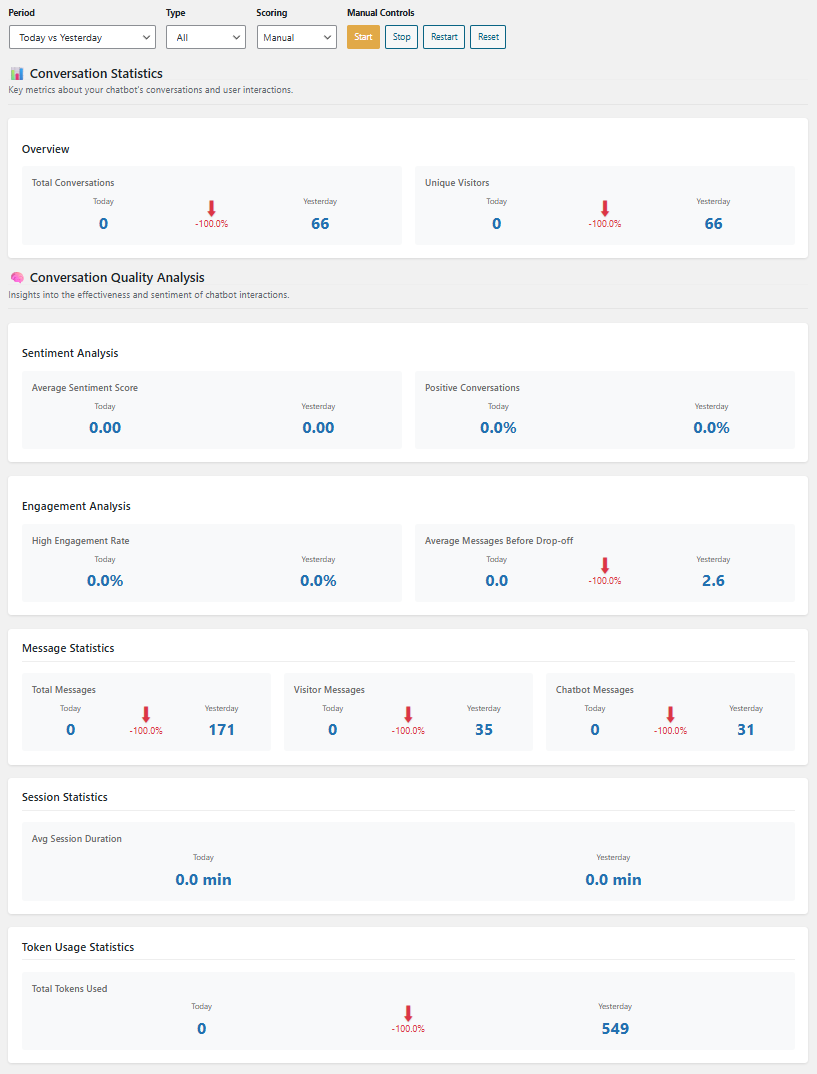
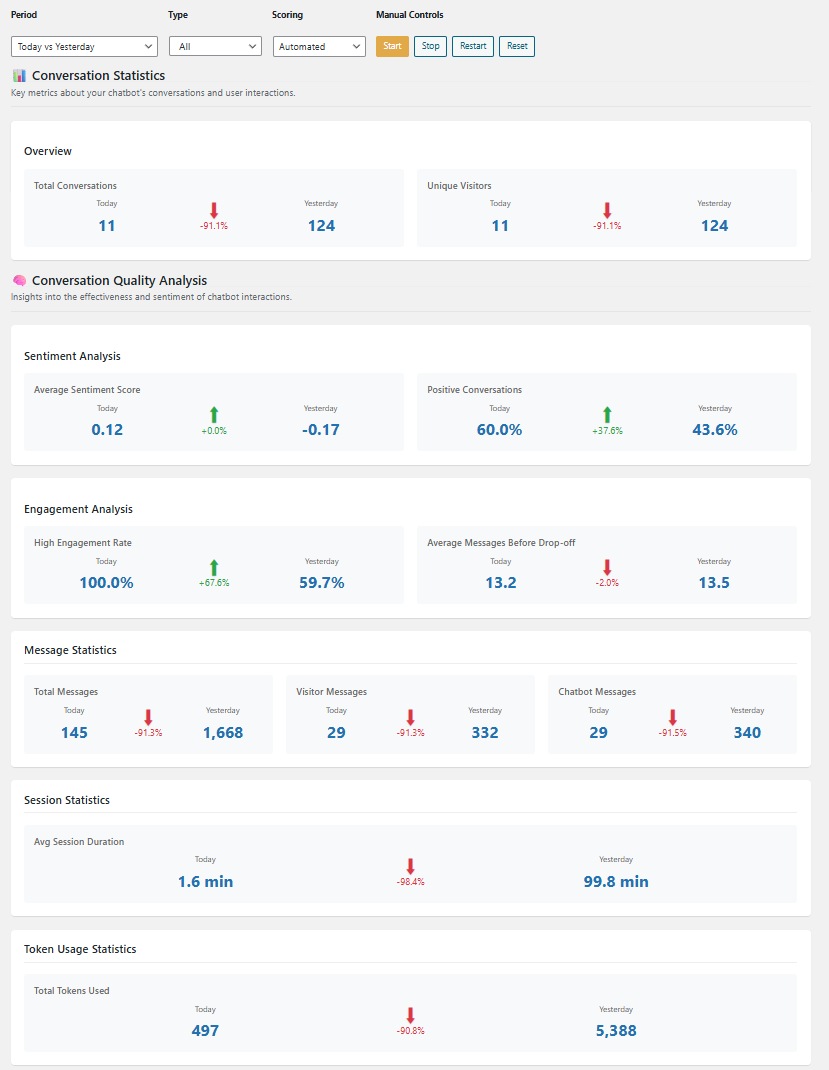
V2.3.1.1 - Working on Analytics Scheduling and Documentation

diff --git a/includes/analytics/scoring-models/sentiment-analysis.php b/includes/analytics/scoring-models/sentiment-analysis.php
@@ -79,6 +79,13 @@ function kognetiks_analytics_score_conversations_without_sentiment_score() {
     $table_name = $wpdb->prefix . 'chatbot_chatgpt_conversation_log';
     $batch_size = 100; // Process 100 records at a time
 
+    // Get the last scoring date
+    $last_scoring_date = get_option('kognetiks_analytics_last_scoring_date');
+    $date_condition = '';
+    if (!empty($last_scoring_date)) {
+        $date_condition = $wpdb->prepare(" AND c.interaction_time >= %s", $last_scoring_date);
+    }
+
     // Prevent concurrent runs
     if (kognetiks_analytics_is_scoring_locked()) {
         back_trace('NOTICE', 'Scoring is already running. Exiting.');
@@ -116,6 +123,7 @@ function kognetiks_analytics_score_conversations_without_sentiment_score() {
                 WHERE t.id IS NULL 
                 AND (c.sentiment_score IS NULL OR c.sentiment_score = '' OR c.sentiment_score = 0)
                 AND (c.user_type = 'Visitor' OR c.user_type = 'Chatbot')
+                $date_condition
                 ORDER BY c.id ASC 
                 LIMIT %d",
                 $batch_size
@@ -189,6 +197,13 @@ function kognetiks_analytics_score_conversations_without_sentiment_score_ai_base
     $table_name = $wpdb->prefix . 'chatbot_chatgpt_conversation_log';
     $batch_size = 100; // Process 100 records at a time
 
+    // Get the last scoring date
+    $last_scoring_date = get_option('kognetiks_analytics_last_scoring_date');
+    $date_condition = '';
+    if (!empty($last_scoring_date)) {
+        $date_condition = $wpdb->prepare(" AND interaction_time >= %s", $last_scoring_date);
+    }
+
     // Prevent concurrent runs
     if (kognetiks_analytics_is_scoring_locked()) {
         back_trace('NOTICE', 'Scoring is already running. Exiting.');
@@ -203,13 +218,13 @@ function kognetiks_analytics_score_conversations_without_sentiment_score_ai_base
         return;
     }
 
-    // Check if any of Today's conversations have not been scored
-    $Today = date('Y-m-d');
+    // Check if any conversations have not been scored
     $conversations = $wpdb->get_results(
         $wpdb->prepare(
             "SELECT * FROM $table_name 
             WHERE (sentiment_score IS NULL OR sentiment_score = '' OR sentiment_score = 0)
             AND (user_type = 'Visitor' OR user_type = 'Chatbot')
+            $date_condition
             ORDER BY id ASC
             LIMIT %d",
             $batch_size
@@ -243,6 +258,7 @@ function kognetiks_analytics_score_conversations_without_sentiment_score_ai_base
                 "SELECT * FROM $table_name 
                 WHERE (sentiment_score IS NULL OR sentiment_score = '' OR sentiment_score = 0) 
                 AND (user_type = 'Visitor' OR user_type = 'Chatbot')
+                $date_condition
                 ORDER BY id ASC
                 LIMIT %d",
                 $batch_size
@@ -290,6 +306,82 @@ function kognetiks_analytics_score_conversations_without_sentiment_score_ai_base
 
 }
 
+// Get the scoring control mode (Manual/Automated)
+function kognetiks_analytics_get_scoring_control_mode() {
+    
+    return get_option('kognetiks_analytics_scoring_control', 'Manual');
+
+}
+
+// Schedule the automated scoring cron job
+function kognetiks_analytics_schedule_scoring_cron() {
+
+    if (!wp_next_scheduled('kognetiks_analytics_automated_scoring')) {
+        wp_schedule_event(time(), 'hourly', 'kognetiks_analytics_automated_scoring');
+        back_trace('NOTICE', 'Automated scoring cron job scheduled');
+    }
+
+}
+
+// Unschedule the automated scoring cron job
+function kognetiks_analytics_unschedule_scoring_cron() {
+
+    $timestamp = wp_next_scheduled('kognetiks_analytics_automated_scoring');
+    if ($timestamp) {
+        wp_unschedule_event($timestamp, 'kognetiks_analytics_automated_scoring');
+        back_trace('NOTICE', 'Automated scoring cron job unscheduled');
+    }
+
+}
+
+// Cron job callback function
+function kognetiks_analytics_automated_scoring_callback() {
+
+    // Only run if scoring control is set to Automated
+    if (kognetiks_analytics_get_scoring_control_mode() === 'Automated') {
+        back_trace('NOTICE', 'Running automated scoring cron job');
+        kognetiks_analytics_score_conversations_without_sentiment_score();
+    } else {
+        // If somehow the cron job is still running but mode is Manual, unschedule it
+        kognetiks_analytics_unschedule_scoring_cron();
+    }
+
+}
+add_action('kognetiks_analytics_automated_scoring', 'kognetiks_analytics_automated_scoring_callback');
+
+// Set the scoring control mode (Manual/Automated)
+function kognetiks_analytics_set_scoring_control_mode($mode) {
+
+    if (!in_array($mode, ['Manual', 'Automated'])) {
+        return false;
+    }
+
+    $current_mode = kognetiks_analytics_get_scoring_control_mode();
+    
+    // Update the option in the database
+    update_option('kognetiks_analytics_scoring_control', $mode);
+
+    // Handle cron job based on mode change
+    if ($mode === 'Automated' && $current_mode !== 'Automated') {
+        // Switching to Automated - schedule the cron job
+        kognetiks_analytics_schedule_scoring_cron();
+    } elseif ($mode === 'Manual' && $current_mode !== 'Manual') {
+        // Switching to Manual - unschedule the cron job
+        kognetiks_analytics_unschedule_scoring_cron();
+    }
+
+    return true;
+
+}
+
+// Cleanup function to unschedule cron job on plugin deactivation
+function kognetiks_analytics_deactivate() {
+
+    kognetiks_analytics_unschedule_scoring_cron();
+
+}
+register_deactivation_hook(__FILE__, 'kognetiks_analytics_deactivate');
+
 // Wrapper function to compute sentiment score using either simple or AI-based method
 function kognetiks_analytics_compute_sentiment_score($message_text) {
 
@@ -305,6 +397,7 @@ function kognetiks_analytics_compute_sentiment_score($message_text) {
     
     // Format score to one decimal place using standard rounding
     return round($score, 1);
+    
 }
 
 // Compute the sentiment score for a message using a simple algorithm

diff --git a/includes/analytics/analytics-settings.php b/includes/analytics/analytics-settings.php
@@ -124,8 +124,13 @@ function kognetiks_analytics_settings_page() {
         if (isset($_POST['kognetiks_analytics_nonce']) && wp_verify_nonce(sanitize_text_field(wp_unslash($_POST['kognetiks_analytics_nonce'])), 'kognetiks_analytics_scoring_control')) {
             // Get the selected scoring control from the form submission
             $selected_scoring_control = isset($_POST['kognetiks_analytics_scoring_control']) ? sanitize_text_field(wp_unslash($_POST['kognetiks_analytics_scoring_control'])) : 'Manual';
+            // Update the option in the database
+            kognetiks_analytics_set_scoring_control_mode($selected_scoring_control);
+            // DIAG - Diagnostics
+            back_trace('NOTICE', 'Scoring control mode updated to: ' . $selected_scoring_control);
         } else {
-            $selected_scoring_control = 'Manual';
+            // Get the current scoring control mode from the database
+            $selected_scoring_control = kognetiks_analytics_get_scoring_control_mode();
         }
 
         // Get all statistics
@@ -727,6 +732,7 @@ function kognetiks_analytics_settings_page() {
         echo '</div>';
     }
     echo '</div>'; // Close .wrap
+    
 }
 
 // Function to delete the files

diff --git a/includes/utilities/chatbot-deactivate.php b/includes/utilities/chatbot-deactivate.php
@@ -169,6 +169,23 @@ function chatbot_chatgpt_uninstall(){
         // back_trace( 'NOTICE', 'Deleting cron event: knowledge_navigator_scan_hook');
         wp_clear_scheduled_hook('knowledge_navigator_scan_hook');
 
+        // Delete any analytics options
+        // back_trace( 'NOTICE', 'Deleting analytics options');
+        $wpdb->query("DELETE FROM {$wpdb->prefix}options WHERE option_name LIKE 'kognetiks_analytics%'");
+
+        // Delete any scheduled analytics cron events
+        // back_trace( 'NOTICE', 'Deleting analytics cron events');
+        $crons = _get_cron_array();
+        foreach ($crons as $timestamp => $cron) {
+            foreach ($cron as $hook => $events) {
+                if (strpos($hook, 'kognetiks_analytics') !== false) {
+                    foreach ($events as $event) {
+                        wp_unschedule_event($timestamp, $hook, $event['args']);
+                    }
+                }
+            }
+        }
+        
     }
 
     // DIAG - Log the uninstall

diff --git a/documentation/analytics-package/analytics-package.md b/documentation/analytics-package/analytics-package.md
@@ -16,19 +16,19 @@ The analytics package summarizes data for sentiment analysis, engagement analysi
 
 ## 📅 Period & Filter Controls
 
-At the top of the Analytics tab, you’ll find controls that allow you to filter results:
+At the top of the Analytics tab, you'll find controls that allow you to:
 
-- **Period Selector** – Choose comparison windows like “Today vs Yesterday,” “This Week vs Last Week,” etc.
-- **Type Filter** – Filter results by conversation type (e.g., All, Knowledge Navigator, Assistant, Custom).
-- **Scoring** – View results using manual or automatic scoring (if configured).
-- **Manual Controls** – Use **Start**, **Stop**, **Restart**, or **Reset** to control manual tracking behavior.
+- **Period Selector** – Choose the comparison windows like ```Today vs Yesterday```, ```This Week vs Last Week```, etc.
+- **Type Filter** – Filter results by conversation type, e.g., ```All```, ```Visitor```, ```Chatbot```).
+- **Scoring** – Switch between sentiment scoring that is ```Manual``` or ```Automated```.  If automated sentiment scores will be computed hourly.
+- **Manual Controls** – Use ```Start```, ```Stop```, ```Restart```, or ```Reset`` to control manual sentiment scoring.
 
 ---
 
 ## 🧠 Conversation Statistics
 
 ### Overview
-This section shows high-level metrics comparing today’s activity to the previous day:
+This section shows high-level metrics comparing today's activity to the previous day:
 
 - **Total Conversations** – Number of unique chatbot conversations initiated.
 - **Unique Visitors** – Number of individual visitors who interacted with the chatbot.
@@ -80,6 +80,52 @@ Monitor your OpenAI (or other LLM provider) usage:
 
 ---
 
+## 📈 Best Practices
+
+- **Monitor daily trends** – Watch for sudden drops or spikes in user activity.
+- **Track engagement** – Low engagement could signal that users aren't getting helpful responses.
+- **Analyze sentiment** – Negative sentiment may indicate confusion or frustration in the user journey.
+- **Filter Prompts and Responses** - Explore visitors/users sentiment seperately from chatbot sentiment.
+- **Manage token usage** – Keep an eye on token counts if you're billed per token by your AI engine.
+
+---
+
+## 🔍 Understanding Filter Prompts and Responses
+
+The ability to filter and analyze visitor/user sentiment separately from chatbot sentiment is crucial for several reasons:
+
+1. **Deeper Understanding of User Experience**
+   - By separating visitor/user sentiment from chatbot sentiment, you can identify if negative sentiment is coming from frustrated users or if it's the chatbot's responses that are causing issues
+   - This helps pinpoint exactly where in the conversation flow problems might be occurring
+
+2. **Better Chatbot Optimization**
+   - If visitor sentiment is consistently negative while chatbot sentiment is positive, it might indicate that the chatbot's responses, while technically correct, aren't effectively addressing user needs
+   - Conversely, if chatbot sentiment is negative but visitor sentiment is positive, it could suggest the chatbot is being too formal or technical when users want more casual interaction
+
+3. **Targeted Improvements**
+   - You can make more informed decisions about what to improve:
+     - If visitor sentiment is low, you might need to improve the chatbot's understanding of user intent
+     - If chatbot sentiment is low, you might need to adjust the tone or style of responses
+   - This separation allows for more precise tuning of the chatbot's personality and response patterns
+
+4. **Quality Control**
+   - It helps identify if the chatbot is maintaining appropriate emotional intelligence
+   - You can ensure the chatbot's responses align with your desired brand voice and customer service standards
+   - It provides a way to validate that the chatbot's sentiment analysis is working correctly
+
+5. **Business Impact**
+   - Understanding the sentiment dynamics helps improve customer satisfaction
+   - It can lead to better conversion rates as you optimize the chatbot's interaction style
+   - It helps maintain a positive brand image by ensuring the chatbot's tone matches your company's values
+
+---
+
+## 🧩 Compatibility
+
+- Works seamlessly with conversation continuation, Assistant-based interactions, and all AI Platform APIs supported by the plugin when Conversation Logging is enabled.
+
+---
+
 ## 🔐 Premium Activation
 
 To unlock this tab:
@@ -89,21 +135,6 @@ To unlock this tab:
 3. Save settings and refresh the Analytics tab.
 
 Need help? Visit our support site or email [support@kognetiks.com](mailto:support@kognetiks.com).
-
----
-
-## 📈 Best Practices
-
-- **Monitor daily trends** – Watch for sudden drops or spikes in user activity.
-- **Track engagement** – Low engagement could signal that users aren’t getting helpful responses.
-- **Analyze sentiment** – Negative sentiment may indicate confusion or frustration in the user journey.
-- **Manage token usage** – Keep an eye on token counts if you’re billed per token by your AI engine.
-
----
-
-## 🧩 Compatibility
-
-- Works seamlessly with conversation continuation, Assistant-based interactions, and all AI Platform APIs.
 
 ---
 
